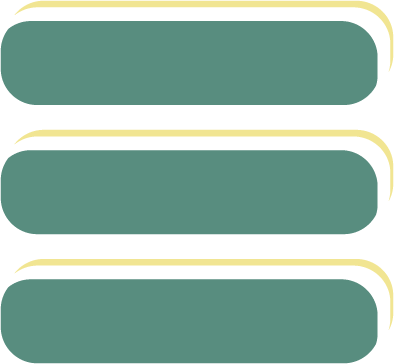
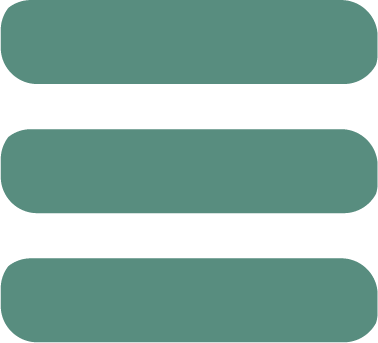
built header and footer for portfolio

diff --git a/portfolio/header.css b/portfolio/header.css
@@ -8,19 +8,18 @@ header {
     background-color: white;
     border: 1px solid #e6e6e6;
     border-top: none;
-    z-index: 9999;
-    height:26vw;
+    padding-top: 5px;
+    padding-bottom: 5px;
 }
 
 header .box {
     margin-top: 10px;
-    margin-left: 20px;
+    margin-left: 22px;
     margin-right: 10px;
-    display: block;
-    float: left;
+    display: inline-block;
     border-radius: 1px;
     width: 35px;
-    height: 30px;
+    height: 35px;
     padding: 0;
     box-sizing: border-box;
 }
@@ -29,8 +28,7 @@ header h1 {
     font-family: 'Montserrat Alternates', sans-serif;
     font-size: 30px;
     font-weight: 700;
-    display: block;
-    float: left;
+    display: inline-block;
     padding-left: 10px;
     line-height: 40px;
     text-transform: uppercase;
@@ -48,76 +46,62 @@ header .myname:hover {
     display: none;
 }
 
-#togglebutton {
-    max-width: 10vw;
-    height: auto;
-    float: left;
+#menuimage {
+    height: 35px;
+    display: inline-block;
     margin-top: 10px;
     margin-left: 20px;
-    margin-right: 10px;
 }
 
 header nav ul {
     display: none;
-    padding-left: 0px;
-    list-style: none;
-    padding-bottom: 10px;
 }
 
 #menutoggle:checked + ul {
-    display: flex;
-    flex-direction: column;
-    justify-content: space-evenly;
+    display: block;
 }
 
 header nav ul li {
-    margin-top: 10px;
     font-family: 'Montserrat', sans-serif;
-    color: #588c7e;
     font-size: 15px;
     text-align: center;
-    padding: 10px;
+    padding: 5px 10px;
 }
 
-header nav ul li:hover {
-    background-color: rgba(255, 255, 255, 1);
-    transition: all 0.3s ease-in-out;
+header nav ul li a {
+    color: #d96459;
 }
 
-header a {
-    color: #56704c;
+header nav ul li a:hover {
+    background-color: #f2e393;
 }
 
 /* Ipad */
 
 @media (min-width: 768px) {
 
-    #logo {
-        max-width: 45vw;
-        height: auto;
-    }
+    header .box {
+        width: 30px;
+        height: 30px;
+    } 
 
-    #togglebutton {
-        margin: 25px 25px;
-        max-width: 8vw;
+    #menuimage {
+        height: 30px;
+        display: inline-block;
+        margin-top: 10px;
+        margin-left: 20px;
     }
-
-} 
+}
 
 /* Desktop */
 
-@media (min-width: 1196px) {
+@media (min-width: 1024px) {
 
-    header {
-        position: static;
-    }
-    
-
-    #logo {
-        display: inline;
-        max-width: 45%;
-        padding: 50px 0px 0px 50px;
-    }
+    header .box {
+        width: 30px;
+        height: 30px;
+        float: left;
+    } 
 
     label[for=menutoggle] {
         display: none;
@@ -128,21 +112,12 @@ header a {
         float: right;
         flex-direction: row;
         justify-content: space-evenly;
-        width: 50%;
-        margin-top: 50px;
+        margin-top: 5px;
     }
 
     header nav ul li {
-        padding: 20px;
-        font-size: 35px;
-    }
-
-}
-
-@media (min-width: 1920px) {
-
-    header nav ul {
-        margin-top: 70px;
+        padding: 10px;
+        font-size: 15px;
     }
 
 }

diff --git a/portfolio/index.html b/portfolio/index.html
@@ -5,10 +5,13 @@
     <meta http-equiv="X-UA-Compatible" content="IE=edge">
     <meta name="viewport" content="width=device-width, initial-scale=1.0">
     <title>Maddison Nielsen</title>
+
+<!----------styles---------->
     <link rel="stylesheet" href="home.css">
+    <link rel="preconnect" href="https://fonts.gstatic.com">
     <link href="https://fonts.googleapis.com/css2?family=Montserrat+Alternates:ital,wght@0,200;0,400;0,700;0,900;1,200;1,400;1,700&display=swap" rel="stylesheet"> 
     <link href="https://fonts.googleapis.com/css2?family=Bitter:ital,wght@0,100;0,400;0,900;1,100;1,400&family=Zilla+Slab:wght@700&display=swap" rel="stylesheet"> 
-    <link href="https://fonts.googleapis.com/css2?family=Montserrat:ital,wght@0,300;0,400;0,700;1,400;1,700&display=swap" rel="stylesheet"> 
+    <link href="https://fonts.googleapis.com/css2?family=Montserrat:ital,wght@0,100;0,200;0,300;0,400;0,500;0,600;0,700;0,800;0,900;1,100;1,200;1,300;1,400;1,500;1,600;1,700;1,800;1,900&display=swap" rel="stylesheet"> 
 </head>
 
 <body>
@@ -17,13 +20,13 @@
 
 <header>
     <nav>
-        <div class="box bg-lime"></div>
-        <div class="box bg-lemon"></div>
-        <div class="box bg-orange"></div>
-        <div class="box bg-grapefruit"></div>
+
     <h1><a href="index.html" class="myname">maddison nielsen</a></h1>
-  
-    <label for="menutoggle"><img src="img/menu.png" id="togglebutton">
+    <div class="box bg-lime"></div>
+    <div class="box bg-lemon"></div>
+    <div class="box bg-orange"></div>
+    <div class="box bg-grapefruit"></div>    
+    <label for="menutoggle"><img src="img/menuclosed.png" id="menuimage">
     </label>
     <input type="checkbox" id="menutoggle"/>
     <ul>
@@ -36,13 +39,17 @@
     </nav>
 </header>
 
+<!----------main---------->
 <main>
 
 </main>
 
+<!----------footer---------->
 <footer>
-    <div>copyright © 2020 maddison nielsen <a href="contact.html">contact</a></div>
+    <div>copyright © 2020 maddison nielsen  <a href="contact.html">contact</a></div>
 </footer>
 
+<!----------script---------->
+<script src="navscript.js"></script>
 </body>
 </html>

diff --git a/portfolio/footer.css b/portfolio/footer.css
@@ -17,7 +17,7 @@ footer {
 
 footer div {
     font-family: 'Montserrat', sans-serif;
-    font-size: 20px;
+    font-size: 14px;
     font-weight: 300;
     display: block;
     float: right;
@@ -30,13 +30,22 @@ footer div {
 
 footer a {
     color: #588c7e;
+    font-weight: 400;
 }
 
 footer a:hover {
     color: #f2e393;
 }
 
+/* Desktop */
+
 @media (min-width: 1024px) {
 
+    footer div {
+        font-size: 20px;
+    }
+    footer a {
+        font-weight: 300;
+    }
 
 }

diff --git a/portfolio/navscript.js b/portfolio/navscript.js
@@ -1,0 +1,19 @@
+//variables
+let menuIMG = document.getElementById("menuimage");
+let menuTGGL = document.getElementById("menutoggle");
+
+//navigation
+let toggleTheImage = function(){
+
+    if(menuTGGL.checked){
+        console.log("open");
+        menuIMG.src = "img/menuopen.png";
+    }
+    else {
+        console.log("closed");
+        menuIMG.src = "img/menuclosed.png";
+    }
+}
+
+//navigation event
+menuTGGL.addEventListener("change", toggleTheImage);
